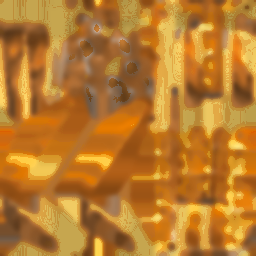
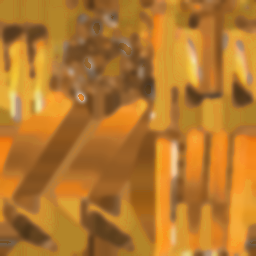
Fresh repaints from the paintings: Ballista level 3 and Storm level 1 kept, Frost level 3 not; gaps.md
For the three parts that lost twice, a fresh Codex repaint of the level from its painting (no shape change); film
r4b, all rules pass. Blind Codex before/after: Ballista level 3 4 -> 5 (its two weapons read a little more clearly,
the weapons' sheet painted too), kept; Storm level 1 4 = 4, after preferred overall (warmer gold and brown supports
easier to tell apart), kept; Frost level 3 6 = 6, before preferred: not kept. reviews/towers/gaps.md lists every try
on those three and what the judge keeps asking for.

diff --git a/reviews/towers/judge.md b/reviews/towers/judge.md
@@ -969,3 +969,57 @@ The three biggest flaws in both:
 2. **The focal point is missing.** Add a bright central floating diamond and one bold orbit ring. Keep them simple and separated enough to read on a phone.
 3. **The base lacks the painting’s character.** Widen and shorten the lower body, then add a large cream banner with a clear blue snowflake and a prominent diamond crest above it.
 
+## the ballista tower, level 3, as in the painting
+codex gpt-6.1-terra; A = after, B = before
+
+**A is slightly better overall.** Its two weapons read a little more clearly, though the difference is small.
+
+| Criterion | A | B |
+|---|---:|---:|
+| Reads as the painted tower at phone size | 5/10 | 4/10 |
+| Whole tower visible and well framed | 8/10 | 8/10 |
+| Shape and proportions match the painting | 4/10 | 4/10 |
+| Colours and materials | 6/10 | 6/10 |
+
+The three biggest flaws in A:
+
+1. **The ballistas merge into a tangle.** In the painting, two distinct weapons sit side by side. Separate them laterally and simplify the strings and fittings so each has a clear silhouette.
+2. **The tower is too tall and spindly.** The concept has a squat, heavy stone base. Widen the base, shorten the upper assembly, and give the battlements larger, chunkier blocks.
+3. **The focal colours are too fragmented.** The painting has broad dark-wood weapons and one dominant red banner; the game model reads as small flashes of white, gold and red. Enlarge the central banner, deepen the wood colour, and use gold more sparingly on major fittings.
+
+## the frost tower, level 3, as in the painting
+codex gpt-6.1-terra; A = after, B = before
+
+**B is marginally better overall**, mainly because the blue marking on its front banner is a little more visible. The screenshots are extremely close, so the difference is small.
+
+| Criterion | A | B |
+|---|---:|---:|
+| Reads as the painted tower at phone size | 6/10 | 6/10 |
+| Whole tower visible and well framed | 9/10 | 9/10 |
+| Shape and proportions match the painting | 5/10 | 5/10 |
+| Colours and materials | 6/10 | 6/10 |
+
+B’s three biggest remaining flaws:
+
+1. **The crown reads as a cluster of ice, not the painting’s distinctive composition.** Make the two outer crystals taller and more swept outward, with a clearly separate diamond at the top of the arch.
+2. **The central floating crystal and its magic rings disappear.** Enlarge the inner diamond, darken the space behind it, and use one bold, thin cyan ring that remains visible at phone size.
+3. **The base is too narrow and column-like.** Widen the lower body and stone footing, give the timber supports a stronger outward taper, and make the cream banner and blue snowflake larger.
+
+## the storm tower, level 1, as in the painting
+codex gpt-6.1-terra; A = after, B = before
+
+| Criterion | A | B |
+|---|---:|---:|
+| Reads as the painted tower at phone size | 4/10 | 4/10 |
+| Whole tower visible and well framed | 7/10 | 7/10 |
+| Shape and proportions | 3/10 | 3/10 |
+| Colours and materials | 4/10 | 3/10 |
+
+**A is slightly better overall.** Its warmer gold and brown supports are easier to distinguish, though both versions lose much of the concept’s character at phone size.
+
+The three biggest flaws in A:
+
+1. **The stone reads as a white cone.** Give it the concept’s broad, irregular upright silhouette, flatter shoulders and warmer beige planes.
+2. **The lightning rune is too small and broken up.** Enlarge it into one bold, continuous purple zigzag on the front face, with enough contrast to read without relying on glow.
+3. **The supports look like small gold lumps.** Make the dark wooden posts taller and clearly separated from the stone, then wrap each with a broad gold band.
+

diff --git a/reviews/towers/gaps.md b/reviews/towers/gaps.md
@@ -1,0 +1,36 @@
+# Tower gaps: tried, did not win (2026-11-27)
+
+Items that lost the blind before/after Codex judge (painting + phone views) more than once. Left as they are until a
+clearly different idea comes up.
+
+## Frost Crystal level 3, the crown (lost three times)
+
+1. The crown turned halfway to the run camera, no crystals in the arch's opening so the arch and diamond show: lost
+   5 vs 6 ("the crown feels hollow and exposes too much of the arch").
+2. The crown kept, its centre gem 1.3 times bigger, glowing cyan, in front of the crystals: lost 5 vs 6 ("overwhelms
+   the crown and loses its icy form").
+3. A fresh Codex repaint of the level from the painting, no shape change: tied 6 vs 6, before marginally preferred.
+
+What the judge keeps asking for: a fuller crystal crown with a visible silver arch and a faceted centre crystal. A
+next try would rebuild the crown from the painting (crystal sizes and placement measured off it), not move parts.
+
+## Ballista level 3, the two weapons (lost twice, then a marginal win)
+
+1. Smooth swept bows, thicker brighter strings: lost 5 vs 6.
+2. Both weapons 1.2 times bigger: lost 5 vs 6 (the earlier one has more contrast).
+3. A fresh Codex repaint of the level, the weapons' sheet painted too: won 5 vs 4, kept (marginal).
+
+## Storm Obelisk level 1, the rune (lost twice, then a marginal win)
+
+1. The rune set into a flat cut face of the stone: lost 4 vs 5.
+2. A raised carved rune plate with a cyan glowing edge: lost 5 vs 6 (the frame pulls attention from the rune).
+3. A fresh Codex repaint of the level: tied on reading (4 vs 4), after preferred overall (warmer gold and brown
+   supports easier to tell apart); kept.
+
+The per-part rating still names the rune ("a floating purple sign rather than a glowing carving"): the rune itself is
+not solved.
+
+## Shared: busy small detail on the phone
+
+See shared_problems.md: an edge-preserving pass over every painted sheet tied on all 15 levels. The busy look comes from
+the many small parts and the lighting, so a fix has to cut or merge parts.
